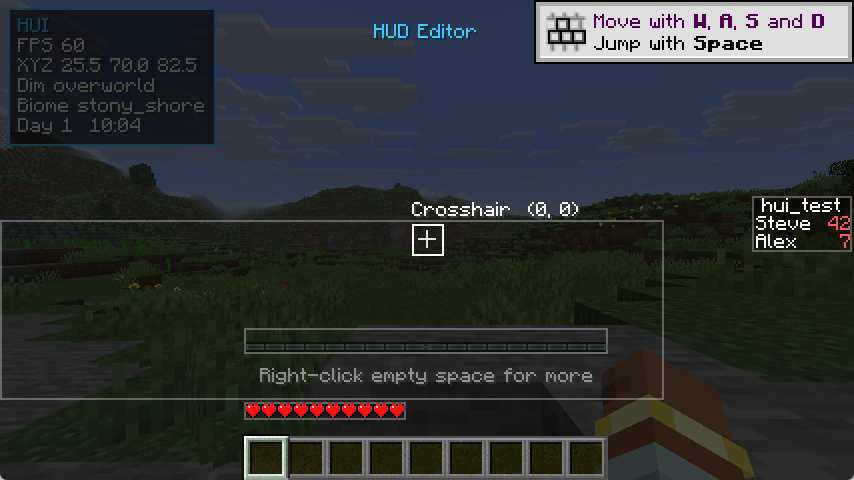
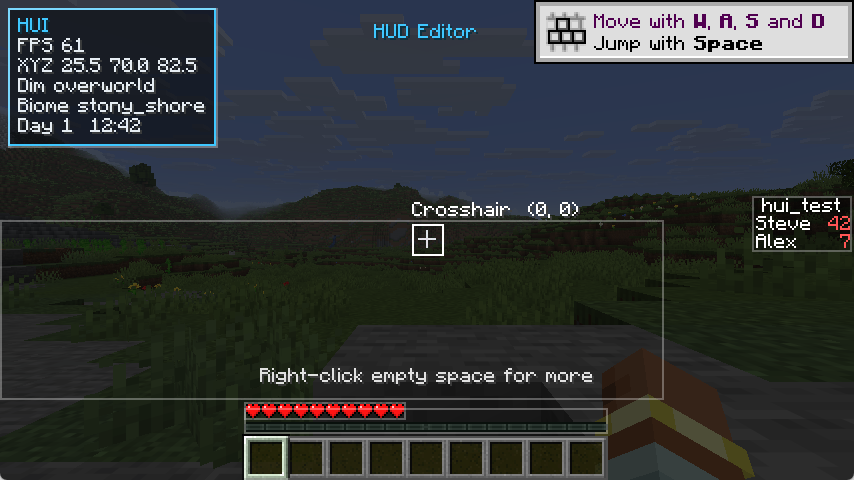
Make the HUI panel a regular editable HUD block and add reset actions
- register the HUI info panel before layer discovery and stop skipping the hui
  namespace, so it is auto-detected like any other HUD layer (drag/hide/reset)
- add 'Reset all HUDs' to the context menu and 'Reset this HUD' to the block menu
- reset only touches the working layout, so it can still be discarded with Cancel
- translations, docs screenshots and README updated

Changed region(s): [[0.0, 0.0, 0.274, 0.3125], [0.274, 0.6562, 0.7307, 0.8125], [0.274, 0.8438, 0.7307, 0.9062]]

diff --git a/src/main/java/com/chai/hui/client/hud/editor/HudEditorScreen.java b/src/main/java/com/chai/hui/client/hud/editor/HudEditorScreen.java
@@ -239,7 +239,7 @@ public final class HudEditorScreen extends Screen {
         List<ContextMenu.Entry> entries;
         if (hit != null) {
             boolean hidden = layout.isHidden(hit.id());
-            entries = new ArrayList<>(2);
+            entries = new ArrayList<>(3);
             entries.add(ContextMenu.Entry.of(hidden ? "hui.menu.show" : "hui.menu.hide",
                     () -> layout.setHidden(hit.id(), !hidden)));
             // Auto-detected layers are rendered by NeoForge's own pipeline to keep third-party HUD order intact, so
@@ -248,11 +248,14 @@ public final class HudEditorScreen extends Screen {
                 entries.add(ContextMenu.Entry.of("hui.menu.bring_front",
                         () -> layout.bringToFront(hit.id())));
             }
+            entries.add(ContextMenu.Entry.of("hui.menu.reset_block",
+                    () -> this.manager.resetBlock(layout, hit.id())));
         } else {
-            entries = List.of(
-                    ContextMenu.Entry.of("hui.menu.save_exit", this::saveAndClose),
-                    ContextMenu.Entry.of("hui.menu.cancel", this::cancelAndClose),
-                    ContextMenu.Entry.of("hui.menu.hui_config", this::openHuiConfig));
+            entries = new ArrayList<>(4);
+            entries.add(ContextMenu.Entry.of("hui.menu.save_exit", this::saveAndClose));
+            entries.add(ContextMenu.Entry.of("hui.menu.cancel", this::cancelAndClose));
+            entries.add(ContextMenu.Entry.of("hui.menu.reset_all", () -> this.manager.resetAll(layout)));
+            entries.add(ContextMenu.Entry.of("hui.menu.hui_config", this::openHuiConfig));
         }
         this.menu = new ContextMenu(this.font, (int) mouseX, (int) mouseY, this.width, this.height, entries);
     }

diff --git a/src/main/java/com/chai/hui/client/hud/HudLayoutManager.java b/src/main/java/com/chai/hui/client/hud/HudLayoutManager.java
@@ -113,7 +113,7 @@ public final class HudLayoutManager {
 
         // --- Everything else that is registered at this point (vanilla leftovers and other mods' HUD layers) --
         for (Identifier id : HudLayerDiscovery.discover(event)) {
-            if (this.capturedLayers.containsKey(id) || HuiMod.MOD_ID.equals(id.getNamespace())) {
+            if (this.capturedLayers.containsKey(id) || ROOT_LAYER.equals(id)) {
                 continue;
             }
             captureAutoBlock(event, id);
@@ -264,6 +264,15 @@ public final class HudLayoutManager {
     /** Throws the working layout away. */
     public void cancel() {
         this.working = null;
+    }
+    /** Resets every block to its default offset, visibility and order (working copy only while editing). */
+    public void resetAll(HudLayout layout) {
+        layout.resetAll(this.blocks.keySet());
+    }
+
+    /** Resets one block to its default offset and visibility (working copy only while editing). */
+    public void resetBlock(HudLayout layout, Identifier id) {
+        layout.reset(id);
     }
 
     public boolean isEditing() {

diff --git a/src/main/java/com/chai/hui/client/hud/HudLayout.java b/src/main/java/com/chai/hui/client/hud/HudLayout.java
@@ -83,6 +83,25 @@ public final class HudLayout {
         entry(id).order = highest + 1;
     }
 
+    /** Restores the default state (no offset, visible, original order) for every given block. */
+    public void resetAll(Collection<Identifier> ids) {
+        int order = 0;
+        for (Identifier id : ids) {
+            Entry entry = entry(id);
+            entry.offsetX = 0;
+            entry.offsetY = 0;
+            entry.hidden = false;
+            entry.order = order++;
+        }
+    }
+
+    /** Restores the default offset and visibility of a single block; the draw order is left untouched. */
+    public void reset(Identifier id) {
+        Entry entry = entry(id);
+        entry.offsetX = 0;
+        entry.offsetY = 0;
+        entry.hidden = false;
+    }
     /** @return the given block ids sorted by their configured draw order (first = bottom). */
     public List<Identifier> ordered(Collection<Identifier> knownIds) {
         List<Identifier> ordered = new ArrayList<>(knownIds);

diff --git a/src/main/java/com/chai/hui/client/HuiClient.java b/src/main/java/com/chai/hui/client/HuiClient.java
@@ -43,10 +43,11 @@ public final class HuiClient {
     }
 
     private void registerGuiLayers(RegisterGuiLayersEvent event) {
+        // Register the HUI panel first: the layout manager auto-detects every layer that exists at this point, so the
+        // panel becomes a regular movable block in the editor instead of a special case.
+        event.registerAboveAll(HUD_LAYER_ID, new HuiHudLayer());
         // Takes ownership of the vanilla HUD layers that can be re-arranged by the editor.
         HudLayoutManager.get().initialize(event);
-        // The HUI information panel is an independent, optional layer; registered last so it draws on top.
-        event.registerAboveAll(HUD_LAYER_ID, new HuiHudLayer());
     }
 
     private void registerKeyMappings(RegisterKeyMappingsEvent event) {

diff --git a/README.md b/README.md
@@ -26,13 +26,17 @@ Minecraft **26.3** / NeoForge **26.3.0.90** 的 GUI / HUD 修改模组。
 按 `Alt + H` 打开（键位可在“控制 → HUI”里修改）。
 
 - **左键 HUD 块**：选中并显示选择框，按住左键拖动即可移动；坐标实时显示在块的上方。
-- **右键 HUD 块**：弹出 HUD 菜单 —— 隐藏 / 显示该 HUD、将该 HUD 置顶（置顶后它会渲染在其他 HUD 块之上）。
-- **右键空白处**：弹出主菜单 —— 保存并退出（写入布局文件并立即生效）、取消（丢弃修改）、打开 HUI 配置界面。
+- **右键 HUD 块**：弹出 HUD 菜单 —— 隐藏 / 显示该 HUD、将该 HUD 置顶（仅内置块）、重置该 HUD。
+- **右键空白处**：弹出主菜单 —— 保存并退出（写入布局文件并立即生效）、取消（丢弃修改）、**重置全部 HUD**、
+  打开 HUI 配置界面。
 - **ESC**：等同于“取消”。
+- HUI 自己的左上角信息面板也在这套系统里：它会被自动检测成一个 `HUI panel` 块，可以拖动、隐藏、重置。
 - 界面为半透明黑底、全屏显示；底部“空白处点击右键显示更多”提示只闪现一次（淡入 0.25s、停留 2.2s、淡出 0.7s），
   不会一直闪烁。
 
-![HUD 编辑器：右键 HUD 块](docs/hud-editor.png)
+![HUD 编辑器：可编辑块（含 HUI 信息面板）](docs/hud-editor.png)
+
+![主菜单里的“重置全部 HUD”](docs/hud-menu-reset.png)
 
 ![HUI 设置界面（可从编辑器菜单打开）](docs/hui-settings.png)
 
